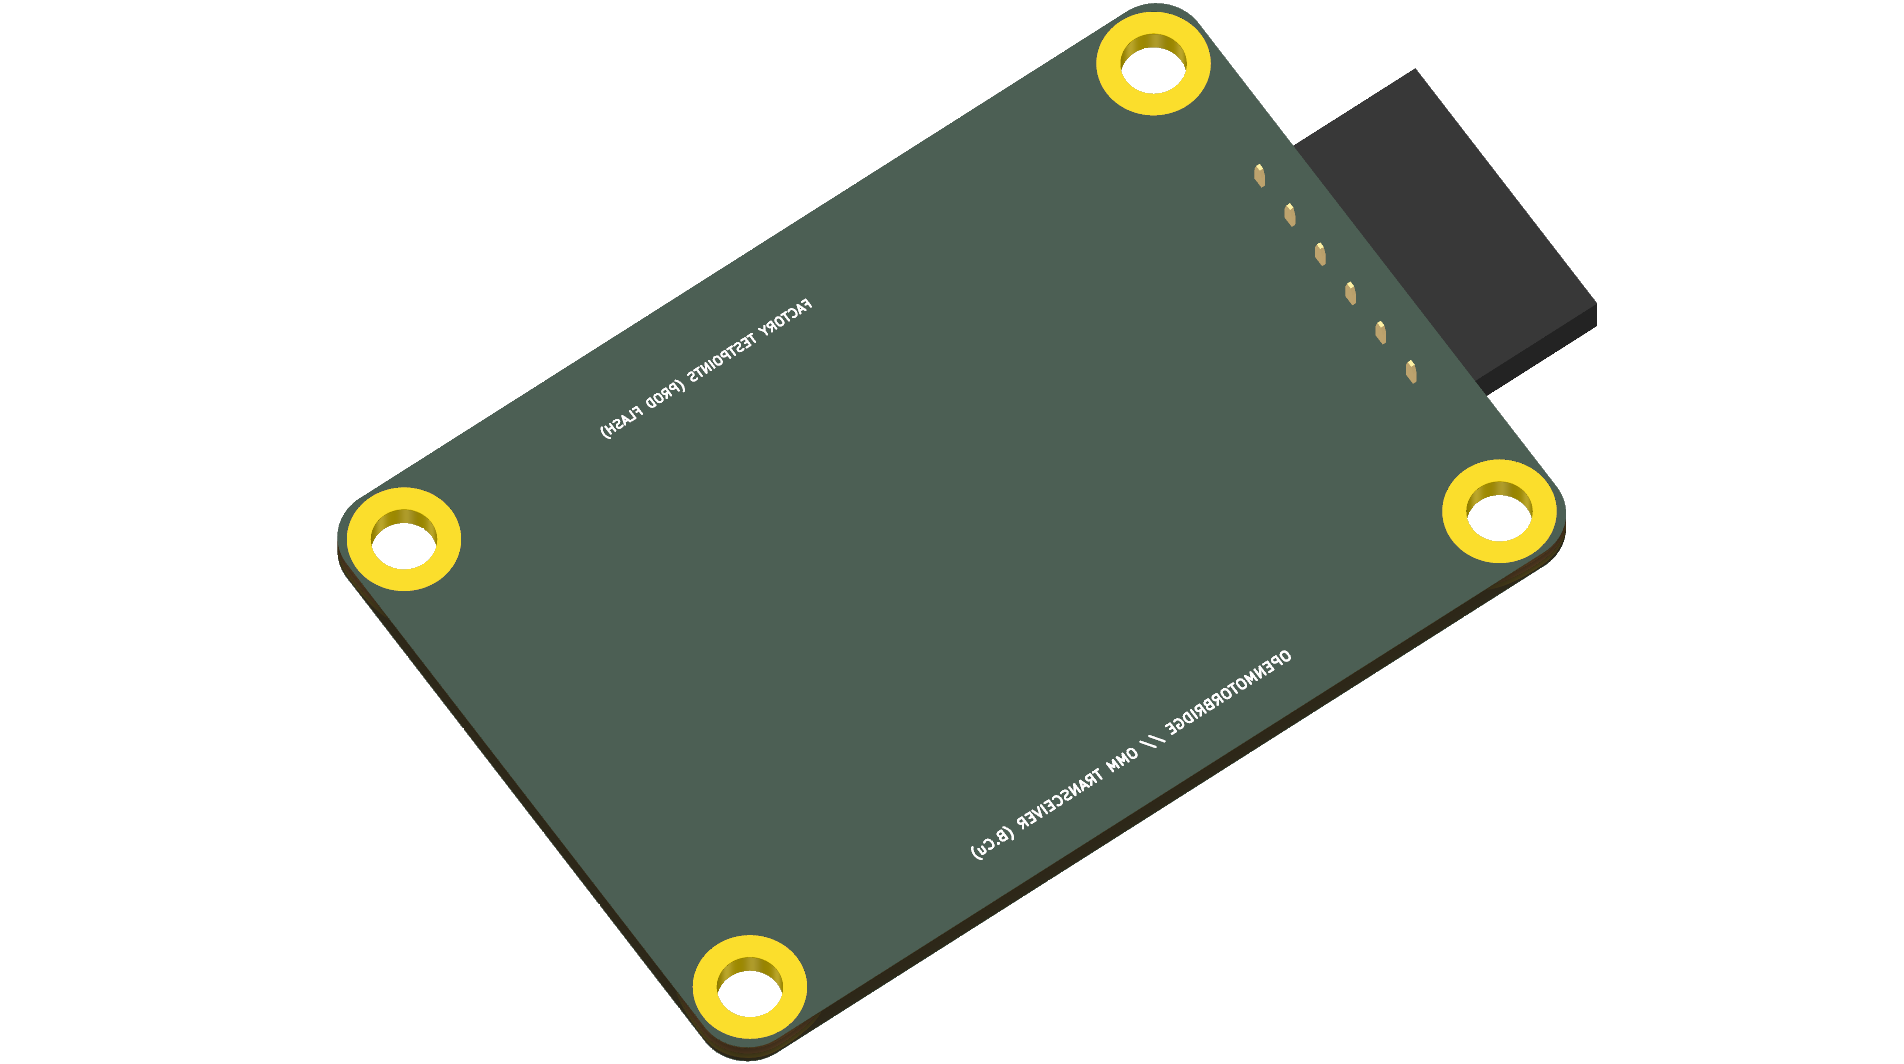
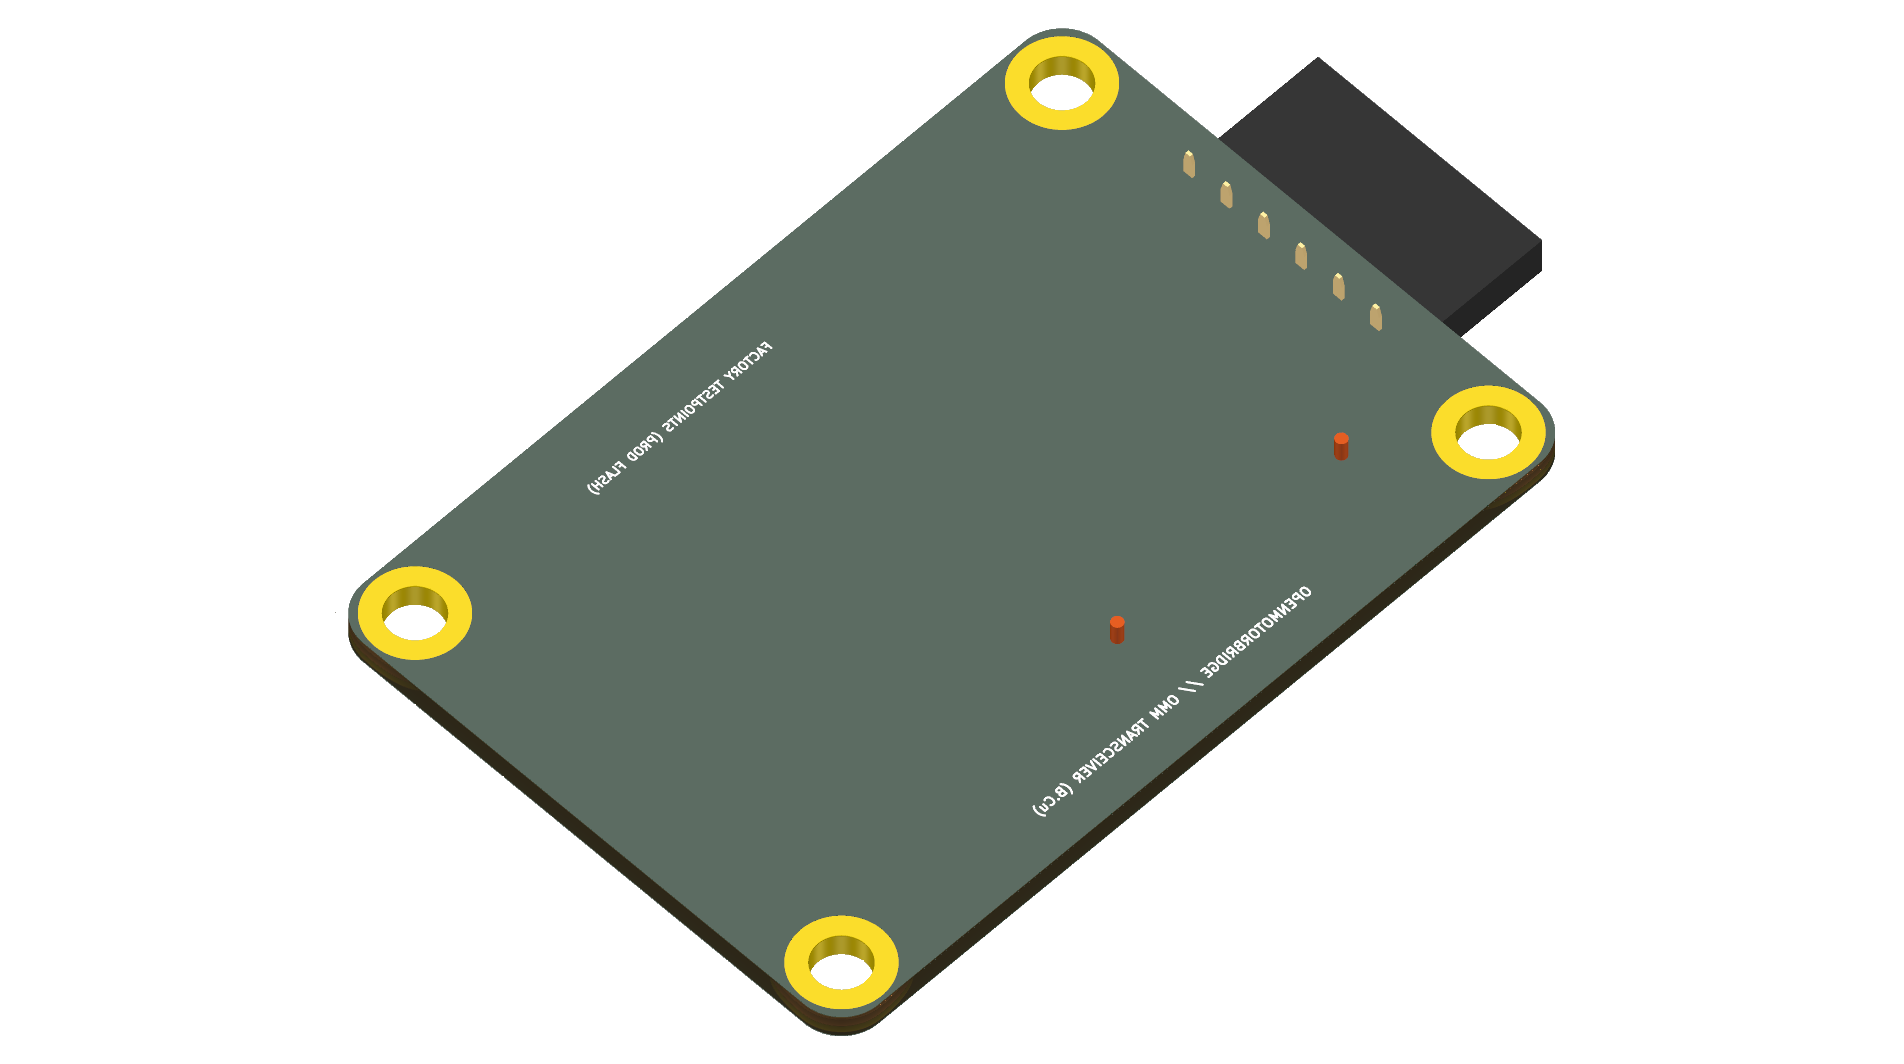
hardware(rear_pod3): configure 100% integrated antennas (GNSS patch, 868MHz helical coil, 2.4GHz PCB antenna)

diff --git a/hardware/scripts/autoplace_rear_pod3.py b/hardware/scripts/autoplace_rear_pod3.py
@@ -30,7 +30,7 @@ def auto_place_rear_pod(pcb_path):
     Y_max = Y0 + H  # 105.0 mm
     Y_center = Y0 + H / 2.0  # 87.5 mm
 
-    # 3D Model Mapping
+    # 3D Model Mapping for 100% Integrated Onboard Antennas
     model_mapping = {
         'U1': ('${KICAD10_3DMODEL_DIR}/RF_Module.3dshapes/ESP32-C3-WROOM-02.step', (0.0, 0.0, 0.0), (0.0, 0.0, 0.0)),
         'U2': ('${KICAD10_3DMODEL_DIR}/Package_DFN_QFN.3dshapes/QFN-24-1EP_4x4mm_P0.5mm_EP2.6x2.6mm.step', (0.0, 0.0, 0.0), (0.0, 0.0, 0.0)),
@@ -38,8 +38,10 @@ def auto_place_rear_pod(pcb_path):
         'U4': ('${KICAD10_3DMODEL_DIR}/Package_TO_SOT_SMD.3dshapes/SOT-23.step', (0.0, 0.0, 0.0), (0.0, 0.0, 0.0)),
         # J1: 6-Pin 2.54mm Horizontal Socket on leading front edge (X=102.5mm)
         'J1': ('${KICAD10_3DMODEL_DIR}/Connector_PinSocket_2.54mm.3dshapes/PinSocket_1x06_P2.54mm_Horizontal.step', (0.0, 0.0, 0.0), (0.0, 0.0, 0.0)),
-        'ANT1': ('${KICAD10_3DMODEL_DIR}/Connector_Coaxial.3dshapes/U.FL_Hirose_U.FL-R-SMT-1_Vertical.step', (0.0, 0.0, 0.0), (0.0, 0.0, 0.0)),
-        'ANT2': ('${KICAD10_3DMODEL_DIR}/Connector_Coaxial.3dshapes/U.FL_Hirose_U.FL-R-SMT-1_Vertical.step', (0.0, 0.0, 0.0), (0.0, 0.0, 0.0)),
+        # ANT2: Integrated 18x18mm GNSS Ceramic Patch Antenna (Sky-Facing Zenith)
+        'ANT2': ('${KICAD10_3DMODEL_DIR}/RF_Antenna.3dshapes/Pulse_W3000.step', (0.0, 0.0, 0.0), (0.0, 0.0, 0.0)),
+        # ANT1: Integrated 868MHz High-Q Helical Spring / Coil Antenna
+        'ANT1': ('${KICAD10_3DMODEL_DIR}/Inductor_THT.3dshapes/L_Axial_L11.0mm_D4.5mm_P15.24mm_Horizontal_Fastron_MECC.step', (0.0, 0.0, 0.0), (0.0, 0.0, 0.0)),
         'L1': ('${KICAD10_3DMODEL_DIR}/Inductor_SMD.3dshapes/L_0603_1608Metric.step', (0.0, 0.0, 0.0), (0.0, 0.0, 0.0)),
         'F1': ('${KICAD10_3DMODEL_DIR}/Resistor_SMD.3dshapes/R_0603_1608Metric.step', (0.0, 0.0, 0.0), (0.0, 0.0, 0.0)),
         'D1': ('${KICAD10_3DMODEL_DIR}/LED_SMD.3dshapes/LED_0603_1608Metric.step', (0.0, 0.0, 0.0), (0.0, 0.0, 0.0)),
@@ -58,8 +60,8 @@ def auto_place_rear_pod(pcb_path):
         'H3': (X0 + 3.5, Y_max - 3.5, 0.0, pcbnew.F_Cu), # (103.5, 101.5) Bottom-Left
         'H4': (X_max - 3.5, Y_max - 3.5, 0.0, pcbnew.F_Cu),# (146.5, 101.5) Bottom-Right
 
-        # J1: 6-Pin Horizontal Socket on FRONT SHORT EDGE (X=102.5mm, Pin 1 at Y=81.15mm so 6 pins span Y 81.15..93.85mm, perfectly centered between H1 and H3!)
-        'J1': (102.5, 81.15, 0.0, pcbnew.F_Cu),          # Symmetrically centered (Clearance to H1: 7.65mm, Clearance to H3: 7.65mm)
+        # J1: 6-Pin Horizontal Socket on FRONT SHORT EDGE (X=102.5mm, Pin 1 at Y=81.15mm so 6 pins span Y 81.15..93.85mm, centered)
+        'J1': (102.5, 81.15, 0.0, pcbnew.F_Cu),
 
         # Power Protection & Status LED (Adjacent to J1)
         'F1': (108.0, 83.5, 0.0, pcbnew.F_Cu),           # 500mA PTC Fuse
@@ -69,14 +71,14 @@ def auto_place_rear_pod(pcb_path):
         # U4: DS2401 Silicon ROM ID (1-Wire)
         'U4': (113.5, 87.5, 0.0, pcbnew.F_Cu),           # SOT-23 ID Chip
 
-        # Active RF & Processor Architecture (Spaced out across board length)
-        'U1': (135.0, 90.0, 0.0, pcbnew.F_Cu),           # ESP32-C3 Mesh Transceiver (100% inside board)
-        'U2': (121.0, 77.0, 0.0, pcbnew.F_Cu),           # u-blox MAX-M10S GNSS (Top Center)
+        # Active RF & Processor Architecture
+        'U1': (136.0, 87.5, 0.0, pcbnew.F_Cu),           # ESP32-C3 Mesh Transceiver with PCB Antenna at Right Edge
+        'U2': (121.0, 75.0, 0.0, pcbnew.F_Cu),           # u-blox MAX-M10S GNSS (Top Center)
         'U3': (121.0, 98.0, 0.0, pcbnew.F_Cu),           # Semtech SX1262 LoRa (Bottom Center)
 
-        # RF Antennas / U.FL Ports (Safe clearance from mounting holes)
-        'ANT2': (109.0, 78.0, 0.0, pcbnew.F_Cu),         # GNSS 1.575 GHz RF Port (Direct to MAX-M10S)
-        'ANT1': (109.0, 97.0, 0.0, pcbnew.F_Cu),         # 868 MHz LoRa RF Port (Direct to SX1262)
+        # 100% Integrated Onboard Antennas
+        'ANT2': (121.0, 80.0, 0.0, pcbnew.F_Cu),         # Integrated GNSS Ceramic Patch (Skyward)
+        'ANT1': (109.0, 98.0, 0.0, pcbnew.F_Cu),         # Integrated 868 MHz Helical Coil Antenna
 
         # Passives & Decoupling
         'C1': (129.0, 80.0, 0.0, pcbnew.F_Cu),           # 10uF 3V3 Decoupling
@@ -114,7 +116,12 @@ def auto_place_rear_pod(pcb_path):
             fp.Models().clear()
             m = pcbnew.FP_3DMODEL()
             m.m_Filename = model_file
-            m.m_Scale = pcbnew.VECTOR3D(1.0, 1.0, 1.0)
+            if ref == 'ANT2':
+                m.m_Scale = pcbnew.VECTOR3D(1.8, 1.8, 1.5)
+            elif ref == 'ANT1':
+                m.m_Scale = pcbnew.VECTOR3D(0.9, 0.9, 0.9)
+            else:
+                m.m_Scale = pcbnew.VECTOR3D(1.0, 1.0, 1.0)
             m.m_Offset = pcbnew.VECTOR3D(ox, oy, oz)
             m.m_Rotation = pcbnew.VECTOR3D(rx, ry, rz)
             m.m_Show = True
